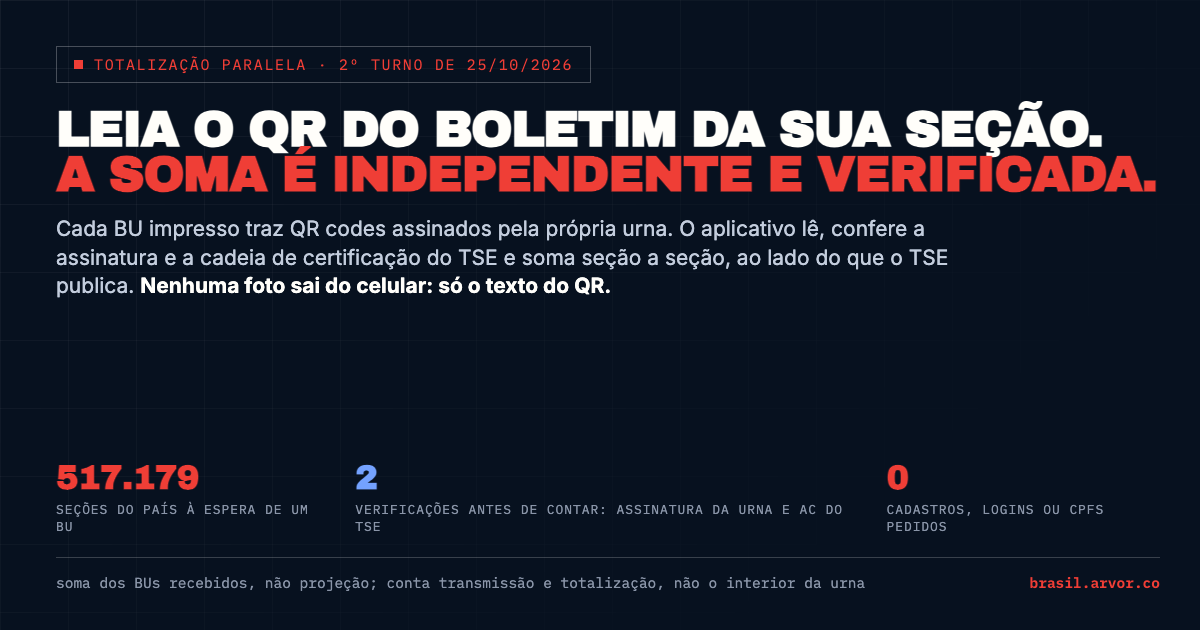
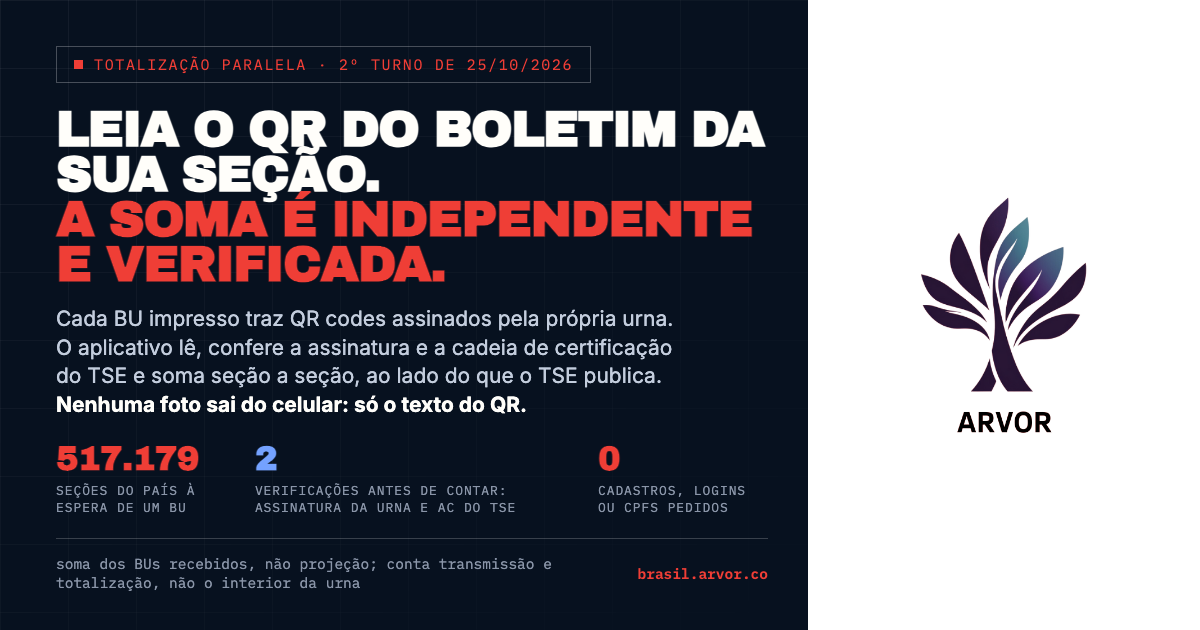
add Arvor branding and arvor.co links to the totalization app, dashboard and cards
Logo em chip branco e nome Arvor no cabecalho da PWA com link para arvor.co; bloco da marca com logo, apresentacao e botoes para arvor.co e para a biblioteca na ficha Sobre; assinatura na tela de resultado; manifesto renomeado Arvor BU; painel com marca linkada e rodape assinado; painel de logo opcional no template dos cards, usado nos dois cards da totalizacao.

Entire-Checkpoint: 14688222ea5a

diff --git a/docs/totalizacao.html b/docs/totalizacao.html
@@ -61,7 +61,7 @@
 <div class="app">
 
 <header class="topo">
-  <img src="img/arvor_logo.png" alt="Arvor" width="28" height="28">
+  <a class="marca" href="https://arvor.co" target="_blank" rel="noopener" aria-label="Arvor, site da empresa (abre em nova aba)"><span class="logo-chip"><img src="img/arvor_logo.png" alt="" width="28" height="28"></span><span class="marca-nome">Arvor</span></a>
   <h1>Totalização paralela</h1>
   <button type="button" class="chip-pend" id="chip-pendentes" hidden>0 na fila</button>
   <button type="button" class="btn-info" id="btn-info" aria-label="Sobre esta conta: o que é, como funciona, regras do dia e privacidade" aria-haspopup="dialog">i</button>
@@ -113,6 +113,7 @@
 
   <section class="estado" id="tela-enviado" aria-label="Resultado do envio" hidden>
     <div class="conteudo resultado-cheio" id="resultado" aria-live="polite"></div>
+    <p class="assinatura"><img src="img/arvor_logo.png" alt="" width="20" height="20">Conta independente da <a href="https://arvor.co" target="_blank" rel="noopener">Arvor</a></p>
     <div class="barra uma">
       <button type="button" class="btn btn-prim" id="btn-outro">Ler outro boletim</button>
     </div>
@@ -128,6 +129,12 @@
     <button type="button" class="btn-fechar" id="btn-fechar-ficha" aria-label="Fechar">×</button>
   </div>
   <div class="ficha-corpo">
+
+    <section id="marca" class="marca-bloco">
+      <img src="img/arvor_logo_text.png" alt="Arvor" width="112" height="112">
+      <p><b>Arvor Intelligence.</b> Ciência de dados e inteligência artificial a serviço do cidadão. A totalização paralela é uma iniciativa da Arvor, com lado declarado e código aberto.</p>
+      <p class="marca-links"><a class="btn btn-sec" href="https://arvor.co" target="_blank" rel="noopener">Conheça a Arvor</a><a class="btn btn-sec" href="index.html">Biblioteca brasil.arvor.co</a></p>
+    </section>
 
     <section id="sobre">
       <p class="kicker">O que é</p>
@@ -186,7 +193,7 @@
         <a class="btn btn-prim" href="totalizacao_painel.html">Ver o painel público</a>
         <a class="btn btn-sec" href="https://github.com/ArvorCo/PNAD/tree/main/totalizacao" target="_blank" rel="noopener">Código-fonte no GitHub</a>
       </div>
-      <p class="rodape-ficha"><b>Arvor Intelligence</b> · <a href="index.html">Biblioteca</a> · <a href="politizesuavizinhanca.html">Politize sua vizinhança</a> · <a href="fiscais_mapa.html">Mapa de fiscais</a></p>
+      <p class="rodape-ficha"><b><a href="https://arvor.co" target="_blank" rel="noopener">Arvor Intelligence</a></b> · <a href="https://arvor.co" target="_blank" rel="noopener">arvor.co</a> · <a href="index.html">Biblioteca</a> · <a href="politizesuavizinhanca.html">Politize sua vizinhança</a> · <a href="fiscais_mapa.html">Mapa de fiscais</a></p>
     </section>
 
   </div>

diff --git a/docs/assets/og/totalizacao.html b/docs/assets/og/totalizacao.html
@@ -8,7 +8,7 @@
 <style>
   *{box-sizing:border-box;margin:0;padding:0}
   body{width:1200px;height:630px;overflow:hidden;background:#07111f;color:#fffefa;font-family:Inter,system-ui,sans-serif}
-  .card{position:relative;width:1200px;height:630px;display:grid;grid-template-columns:1fr;overflow:hidden}
+  .card{position:relative;width:1200px;height:630px;display:grid;grid-template-columns:1fr 392px;overflow:hidden}
   .card::before{content:"";position:absolute;inset:0;z-index:0;
     background:linear-gradient(rgba(255,255,255,.05) 1px,transparent 1px) 0 0/68px 68px,
                linear-gradient(90deg,rgba(255,255,255,.05) 1px,transparent 1px) 0 0/68px 68px;
@@ -21,7 +21,7 @@
   h1{font-family:"Archivo Black",sans-serif;font-size:50px;line-height:.9;letter-spacing:-.03em;
     margin:24px 0 0;text-transform:uppercase}
   h1 em{font-style:normal;color:#ef3e36;display:block}
-  .lede{font-size:21px;line-height:1.36;color:#c3cddd;max-width:900px;margin-top:18px}
+  .lede{font-size:21px;line-height:1.36;color:#c3cddd;max-width:620px;margin-top:18px}
   .lede b{color:#fffefa}
   .stats{display:flex;gap:34px}
   .stats b{font-family:"Archivo Black",sans-serif;font-size:34px;letter-spacing:-.02em;line-height:1;display:block}
@@ -33,6 +33,8 @@
   .foot b{color:#ef3e36}
   .right{position:relative;z-index:1;height:630px;border-left:1px solid rgba(255,255,255,.16);overflow:hidden}
   .right img{width:100%;height:100%;object-fit:cover;filter:grayscale(1) contrast(1.18) brightness(.7)}
+  .right.logo{background:#fff;display:grid;place-items:center}
+  .right.logo img{width:72%;height:auto;object-fit:contain;filter:none}
   .right::after{content:"";position:absolute;inset:0;background:#ef3e36;opacity:.2;mix-blend-mode:color}
   .duo{display:grid;grid-template-rows:315px 315px}
   .duo figure{position:relative;height:315px;overflow:hidden}
@@ -60,6 +62,7 @@
         <div class="foot"><span>soma dos BUs recebidos, não projeção; conta transmissão e totalização, não o interior da urna</span><span><b>brasil.arvor.co</b></span></div>
       </div>
     </div>
+    <div class="right logo"><img src="../../img/arvor_logo_text.png" alt="Arvor"></div>
   </div>
 </body>
 </html>

diff --git a/docs/assets/og/totalizacao_painel.html b/docs/assets/og/totalizacao_painel.html
@@ -8,7 +8,7 @@
 <style>
   *{box-sizing:border-box;margin:0;padding:0}
   body{width:1200px;height:630px;overflow:hidden;background:#07111f;color:#fffefa;font-family:Inter,system-ui,sans-serif}
-  .card{position:relative;width:1200px;height:630px;display:grid;grid-template-columns:1fr;overflow:hidden}
+  .card{position:relative;width:1200px;height:630px;display:grid;grid-template-columns:1fr 392px;overflow:hidden}
   .card::before{content:"";position:absolute;inset:0;z-index:0;
     background:linear-gradient(rgba(255,255,255,.05) 1px,transparent 1px) 0 0/68px 68px,
                linear-gradient(90deg,rgba(255,255,255,.05) 1px,transparent 1px) 0 0/68px 68px;
@@ -21,7 +21,7 @@
   h1{font-family:"Archivo Black",sans-serif;font-size:50px;line-height:.9;letter-spacing:-.03em;
     margin:24px 0 0;text-transform:uppercase}
   h1 em{font-style:normal;color:#ef3e36;display:block}
-  .lede{font-size:21px;line-height:1.36;color:#c3cddd;max-width:900px;margin-top:18px}
+  .lede{font-size:21px;line-height:1.36;color:#c3cddd;max-width:620px;margin-top:18px}
   .lede b{color:#fffefa}
   .stats{display:flex;gap:34px}
   .stats b{font-family:"Archivo Black",sans-serif;font-size:34px;letter-spacing:-.02em;line-height:1;display:block}
@@ -33,6 +33,8 @@
   .foot b{color:#ef3e36}
   .right{position:relative;z-index:1;height:630px;border-left:1px solid rgba(255,255,255,.16);overflow:hidden}
   .right img{width:100%;height:100%;object-fit:cover;filter:grayscale(1) contrast(1.18) brightness(.7)}
+  .right.logo{background:#fff;display:grid;place-items:center}
+  .right.logo img{width:72%;height:auto;object-fit:contain;filter:none}
   .right::after{content:"";position:absolute;inset:0;background:#ef3e36;opacity:.2;mix-blend-mode:color}
   .duo{display:grid;grid-template-rows:315px 315px}
   .duo figure{position:relative;height:315px;overflow:hidden}
@@ -60,6 +62,7 @@
         <div class="foot"><span>rótulo fixo: soma dos BUs recebidos, não projeção</span><span><b>brasil.arvor.co</b></span></div>
       </div>
     </div>
+    <div class="right logo"><img src="../../img/arvor_logo_text.png" alt="Arvor"></div>
   </div>
 </body>
 </html>

diff --git a/docs/assets/totalizacao/app.css b/docs/assets/totalizacao/app.css
@@ -42,7 +42,19 @@ a{color:var(--azul-txt)}
 
 /* ---------- cabeçalho fixo ---------- */
 .topo{display:flex;align-items:center;gap:10px;padding:calc(8px + var(--safe-t)) calc(12px + var(--safe-r)) 8px calc(12px + var(--safe-l));min-height:calc(56px + var(--safe-t));background:var(--azul);color:#fff;flex:none}
-.topo img{width:28px;height:28px;border-radius:6px;flex:none}
+.topo .marca{display:flex;align-items:center;gap:8px;color:#fff;text-decoration:none;flex:none;min-height:44px}
+.topo .logo-chip{display:grid;place-items:center;width:36px;height:36px;border-radius:9px;background:#fff;flex:none}
+.topo .logo-chip img{width:28px;height:28px;display:block}
+.topo .marca-nome{font-family:var(--display);font-weight:900;font-size:1.05rem;letter-spacing:.02em}
+.topo .marca:hover .marca-nome{text-decoration:underline}
+.assinatura{display:flex;align-items:center;justify-content:center;gap:8px;margin:0;padding:0 16px 10px;font-family:var(--mono);font-size:.82rem;color:var(--muted);flex:none}
+.assinatura img{width:20px;height:20px;background:#fff;border-radius:5px;padding:1px}
+.assinatura a{color:inherit;font-weight:700}
+.marca-bloco{display:grid;justify-items:center;text-align:center;gap:10px;padding:8px 0 18px;border-bottom:1px solid var(--line);margin:0 0 18px}
+.marca-bloco img{width:112px;height:112px;background:#fff;border-radius:18px;padding:6px}
+.marca-bloco p{margin:0;max-width:36ch}
+.marca-links{display:flex;flex-wrap:wrap;gap:10px;justify-content:center}
+.marca-links .btn{min-height:48px;padding:0 16px;font-size:1rem}
 .topo h1{font-family:var(--display);font-weight:700;font-size:clamp(.95rem,4.4vw,1.15rem);line-height:1.1;margin:0;flex:1;min-width:0;white-space:nowrap;overflow:hidden;text-overflow:ellipsis}
 .chip-pend{font-family:var(--mono);font-size:.8rem;letter-spacing:.04em;border:0;border-radius:999px;min-height:36px;padding:6px 10px;background:var(--amarelo);color:#151812;font-weight:700;cursor:pointer;display:inline-flex;align-items:center;gap:6px;white-space:nowrap}
 .chip-pend.off{background:var(--lula);color:#fff}

diff --git a/docs/assets/totalizacao_painel/painel.css b/docs/assets/totalizacao_painel/painel.css
@@ -29,7 +29,13 @@ code{font-family:var(--mono);font-size:.88em;background:var(--paper2);padding:1p
 .hero{color:#f4f2ea;background:radial-gradient(120% 90% at 85% 0%,#1c3d63 0%,var(--azul) 55%,#0a1a2b 100%);padding:0 0 34px}
 .brand{padding:22px 0 0;font-family:var(--mono);font-size:.74rem;letter-spacing:.13em;text-transform:uppercase;color:#c3ccd5}
 .brand a{display:flex;align-items:center;gap:10px;color:inherit;text-decoration:none;min-height:44px}
-.brand img{width:26px;height:26px;border-radius:4px}
+.brand{display:flex;flex-wrap:wrap;align-items:center;gap:6px 18px}
+.brand .logo-chip{display:grid;place-items:center;width:34px;height:34px;border-radius:8px;background:#fff}
+.brand img{width:26px;height:26px;display:block}
+.brand a:hover{text-decoration:underline}
+.brand .brand-sec{font-weight:400;letter-spacing:.1em}
+.rodape-marca{display:flex;flex-wrap:wrap;align-items:center;gap:8px}
+.rodape-marca img{width:22px;height:22px;background:#fff;border-radius:5px;padding:1px}
 .eyebrow{font-family:var(--mono);font-size:.76rem;letter-spacing:.14em;text-transform:uppercase;color:var(--amarelo2);margin:24px 0 0}
 .hero h1{font-family:var(--display);font-weight:900;font-size:clamp(2.1rem,8vw,3.8rem);line-height:1;letter-spacing:-.02em;margin:10px 0 0;max-width:18ch;overflow-wrap:break-word}
 .cobertura{font-family:var(--display);font-weight:500;font-size:clamp(1.25rem,4.4vw,1.8rem);line-height:1.3;margin:20px 0 0;max-width:34ch;color:#fff}

diff --git a/docs/totalizacao_painel.html b/docs/totalizacao_painel.html
@@ -42,7 +42,7 @@
 
 <header class="hero">
   <div class="wrap">
-    <div class="brand"><a href="index.html"><img src="img/arvor_logo.png" alt="" width="26" height="26">Arvor Intelligence · Utilidade pública</a></div>
+    <div class="brand"><a href="https://arvor.co" target="_blank" rel="noopener"><span class="logo-chip"><img src="img/arvor_logo.png" alt="" width="26" height="26"></span>Arvor Intelligence</a><a class="brand-sec" href="index.html">Biblioteca brasil.arvor.co</a></div>
     <p class="eyebrow">Painel · 2º turno de 25/10/2026</p>
     <h1>Totalização paralela do 2º turno</h1>
     <p class="cobertura" id="cobertura"><span class="semjs">Recebemos o BU de algumas seções. Os números pedem JavaScript.</span></p>
@@ -144,6 +144,6 @@
   </section>
 </main>
 
-<footer class="rodape"><div class="wrap"><p><a href="index.html">Arvor Intelligence</a> · Fonte: BUs enviados pelo público, TSE (aptos por seção). Soma dos BUs recebidos, não projeção.</p></div></footer>
+<footer class="rodape"><div class="wrap"><p class="rodape-marca"><img src="img/arvor_logo.png" alt="" width="22" height="22"><b>Uma iniciativa da <a href="https://arvor.co" target="_blank" rel="noopener">Arvor</a></b> · <a href="https://arvor.co">arvor.co</a> · <a href="index.html">Biblioteca brasil.arvor.co</a></p><p>Fonte: BUs enviados pelo público, TSE (aptos por seção). Soma dos BUs recebidos, não projeção.</p></div></footer>
 </body>
 </html>

diff --git a/scripts/social-cards.py b/scripts/social-cards.py
@@ -83,6 +83,7 @@ CARDS: list[dict] = [
         ],
         "foot": "soma dos BUs recebidos, não projeção; conta transmissão e totalização, não o interior da urna",
         "accent": "red",
+        "logo": True,
     },
     {
         "slug": "totalizacao_painel",
@@ -97,6 +98,7 @@ CARDS: list[dict] = [
         ],
         "foot": "rótulo fixo: soma dos BUs recebidos, não projeção",
         "accent": "red",
+        "logo": True,
     },
     {
         "slug": "senado_2027",
@@ -869,6 +871,8 @@ TEMPLATE = """<!doctype html>
   .foot b{{color:{accent}}}
   .right{{position:relative;z-index:1;height:630px;border-left:1px solid rgba(255,255,255,.16);overflow:hidden}}
   .right img{{width:100%;height:100%;object-fit:cover;filter:grayscale(1) contrast(1.18) brightness(.7)}}
+  .right.logo{{background:#fff;display:grid;place-items:center}}
+  .right.logo img{{width:72%;height:auto;object-fit:contain;filter:none}}
   .right::after{{content:"";position:absolute;inset:0;background:{accent};opacity:.2;mix-blend-mode:color}}
   .duo{{display:grid;grid-template-rows:315px 315px}}
   .duo figure{{position:relative;height:315px;overflow:hidden}}
@@ -910,7 +914,7 @@ DUO_PANEL = """
 
 def render_card(card: dict) -> str:
     accent = ACCENTS[card.get("accent", "lime")]
-    has_panel = bool(card.get("photo") or card.get("duo"))
+    has_panel = bool(card.get("photo") or card.get("duo") or card.get("logo"))
     stats = "".join(
         f'<div class="s{i}"><b>{escape(value)}</b><span>{escape(label)}</span></div>'
         for i, (value, label) in enumerate(card.get("stats", []))
@@ -922,6 +926,8 @@ def render_card(card: dict) -> str:
         right = (
             f'\n    <div class="right"><img src="../../{card["photo"]}" alt=""></div>'
         )
+    elif card.get("logo"):
+        right = '\n    <div class="right logo"><img src="../../img/arvor_logo_text.png" alt="Arvor"></div>'
     else:
         right = ""
     title = escape(card["title"])
